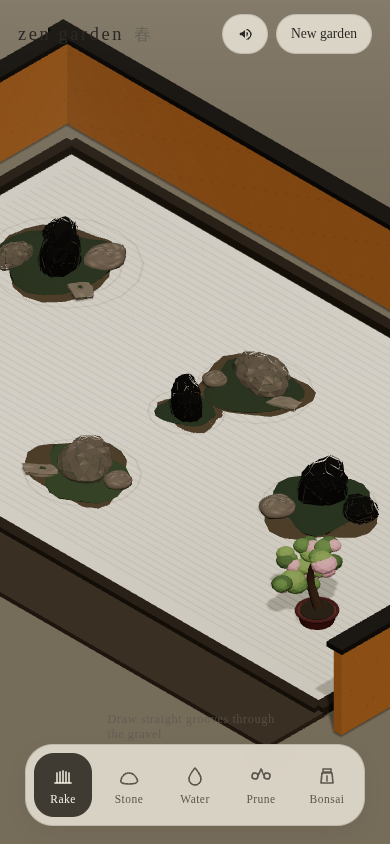
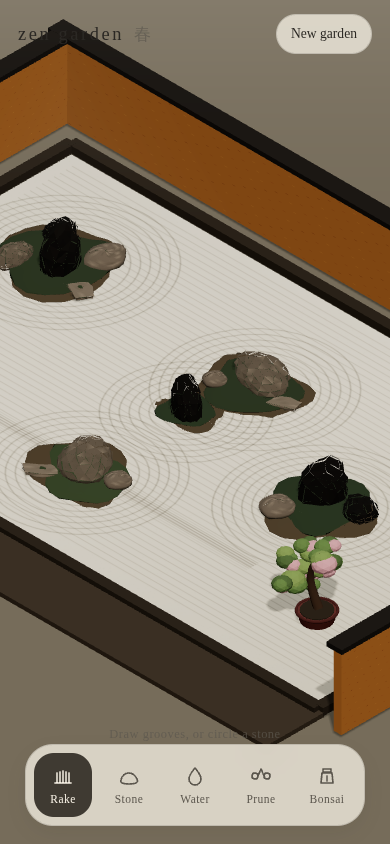
Recapture screenshots of rings and a straight rake cut
Tune stroke classification so short arcs stay curved, sample rings on
an even radius, and commit desktop, HUD, and mobile shots.

diff --git a/tests/garden.spec.ts b/tests/garden.spec.ts
@@ -213,11 +213,15 @@ test.describe("Zen Garden", () => {
       const group = (save?.stones ?? []).filter((s) => s.cluster === 0);
       const cx = group.reduce((s, t) => s + t.x, 0) / group.length;
       const cz = group.reduce((s, t) => s + t.z, 0) / group.length;
+      const moss = (save?.moss ?? []).find((m) => Math.hypot(m.x - cx, m.z - cz) < 0.85);
+      const innerR = (moss?.scale ?? 1) * 0.48;
+      const ringR = innerR + 0.165 * 2;
       return {
         tone: api.getSandTone(),
-        ring: api.sampleArcDeviation(cx, cz, 1.15),
+        ring: api.sampleArcDeviation(cx, cz, ringR),
         cx,
         cz,
+        ringR,
       };
     });
     expect(look.tone.luma).toBeGreaterThan(150);
@@ -233,11 +237,11 @@ test.describe("Zen Garden", () => {
       }
       return {
         mode: api.rakeStroke(pts),
-        chord: api.sampleGrooveDeviation(-1.7 + Math.cos(Math.PI * 0.12) * 1.4, 2.32, -1.7 + Math.cos(Math.PI * 0.97) * 1.4, 2.32),
+        alongArc: api.sampleArcDeviation(-1.7, 2.32, 1.4, Math.PI * 0.12, Math.PI * 0.97),
       };
     });
     expect(curved.mode).toBe("curve");
-    expect(curved.chord).toBeGreaterThan(2.2);
+    expect(curved.alongArc).toBeLessThan(3.5);
 
     const circled = await page.evaluate((center) => {
       const api = window.__ZEN_GARDEN__!;

diff --git a/src/rake.ts b/src/rake.ts
@@ -57,7 +57,7 @@ export class RakeGuide {
   feed(x: number, z: number, islands: RakeIsland[]): RakePiece | null {
     const raw = { x, z };
     this.samples.push(raw);
-    if (this.mode === "pending" && this.pathLength() >= 0.3) {
+    if (this.mode === "pending" || this.mode === "curve") {
       this.classify(islands);
     }
     if (this.mode === "circle") return this.emitCircle(raw);
@@ -68,7 +68,7 @@ export class RakeGuide {
   private classify(islands: RakeIsland[]): void {
     const circle = this.bestCircle(islands);
     const straight = this.straightness();
-    if (circle && circle.score > 0.58 && circle.score >= straight - 0.04) {
+    if (circle && circle.score > 0.58) {
       this.mode = "circle";
       this.island = circle.island;
       this.radius = snapRingRadius(circle.radius, circle.island.innerR);
@@ -80,12 +80,13 @@ export class RakeGuide {
       };
       return;
     }
-    if (straight > 0.7) {
+    const path = this.pathLength();
+    if (path >= 0.85 && straight > 0.78) {
       this.mode = "straight";
       this.lockStraight();
       return;
     }
-    this.mode = "curve";
+    if (path >= 0.5) this.mode = "curve";
   }
 
   private bestCircle(islands: RakeIsland[]): { island: RakeIsland; radius: number; score: number } | null {

diff --git a/src/sand.ts b/src/sand.ts
@@ -257,6 +257,7 @@ export class SandField {
     const img = this.ctx.getImageData(0, 0, TEX_W, TEX_H);
     const steps = 36;
     const radii: number[] = [];
+    let prev = 0;
     for (let i = 0; i <= steps; i++) {
       const a = a0 + ((a1 - a0) * i) / steps;
       const px = cx + Math.cos(a) * radius;
@@ -266,9 +267,11 @@ export class SandField {
       const nx = uv.u - inward.u;
       const ny = uv.v - inward.v;
       const nlen = Math.hypot(nx, ny) || 1;
-      let best = 0;
+      let best = prev;
       let bestDark = 999;
-      for (let o = -10; o <= 10; o++) {
+      const lo = i === 0 ? -8 : prev - 3;
+      const hi = i === 0 ? 8 : prev + 3;
+      for (let o = lo; o <= hi; o++) {
         const x = Math.round(uv.u + (nx / nlen) * o);
         const y = Math.round(uv.v + (ny / nlen) * o);
         if (x < 0 || y < 0 || x >= TEX_W || y >= TEX_H) continue;
@@ -279,6 +282,7 @@ export class SandField {
           best = o;
         }
       }
+      prev = best;
       radii.push(best);
     }
     const mean = radii.reduce((s, v) => s + v, 0) / radii.length;
